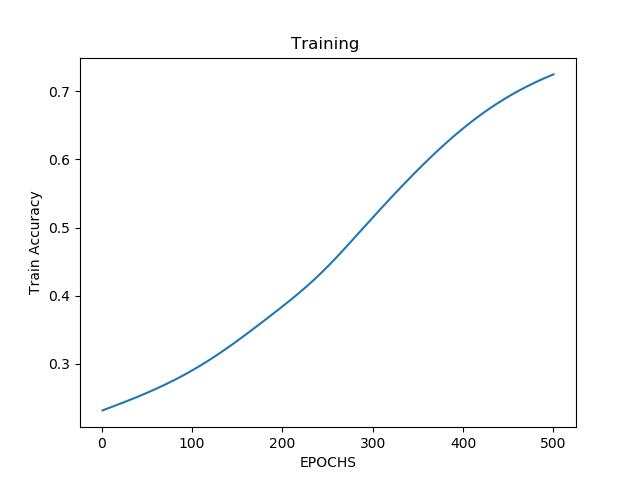
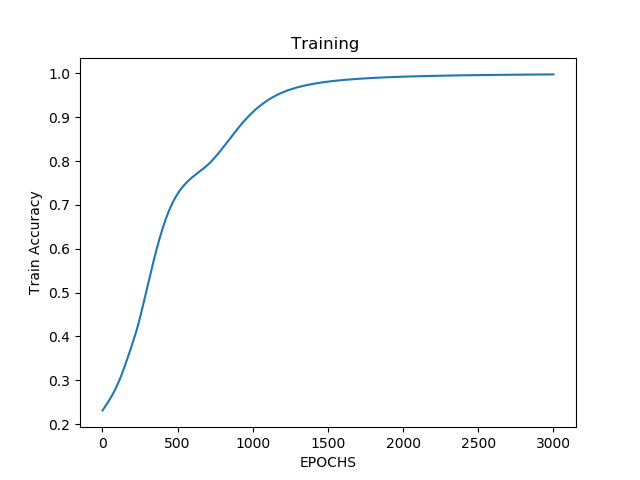
added cpu resource display

diff --git a/fnn.py b/fnn.py
@@ -5,13 +5,17 @@ import torch.nn.functional as F
 import matplotlib.pyplot as plt
 import datetime
 import tqdm
+import cpuinfo
+import os
 
 # gpu / cpu check
 if torch.cuda.is_available():
 	print('resource: GPU Available')
+    # os.system(nvidia-smi)
 
 else:
-	print('resource: CPU Available')
+	print('resource: ',cpuinfo.get_cpu_info()['brand'])
+    # os.system()
 
 
 
@@ -22,7 +26,8 @@ input_size = 5
 hidden_size = 10
 num_classes = 4
 learning_rate = 0.001
-epochs = 500
+epochs = 3000
+time_delay_tqdm = 0.001
 
 
 # defining input and target
@@ -62,7 +67,7 @@ def plot_loss(e,epochs):
 	#plt.show()
 	plt.close()
 
-	print("final accuracy: ", y.pop())
+	print("train accuracy: ", y.pop())
 
 
 
@@ -148,7 +153,7 @@ for epoch in tqdm(range(0,epochs),desc = 'training'):
 		#
 		# print ("percentage of training complete: ", ((1-(epoch/epochs)) * 100))
 
-		time.sleep(0.01) #update the tqdm object after the sleeping time
+		time.sleep(time_delay_tqdm) #update the tqdm object after the sleeping time
 net_time = datetime.datetime.now()-start
 
 print("total time: ",net_time)

diff --git a/cnn.py b/cnn.py
@@ -5,13 +5,17 @@ import torch.nn.functional as F
 import matplotlib.pyplot as plt
 import datetime
 import tqdm
+import cpuinfo
+import os
 
 # gpu / cpu check
 if torch.cuda.is_available():
 	print('resource: GPU Available')
+    # os.system(nvidia-smi)
 
 else:
-	print('resource: CPU Available')
+	print('resource: ',cpuinfo.get_cpu_info()['brand'])
+    # os.system()
 
 
 
@@ -23,6 +27,7 @@ hidden_size = 10
 num_classes = 4
 learning_rate = 0.001
 epochs = 500
+time_delay_tqdm = 0.001
 
 
 # defining input and target
@@ -62,7 +67,7 @@ def plot_loss(e,epochs):
 	#plt.show()
 	plt.close()
 
-	print("final accuracy: ", y.pop())
+	print("train accuracy: ", y.pop())
 
 
 
@@ -148,7 +153,7 @@ for epoch in tqdm(range(0,epochs),desc = 'training'):
 		#
 		# print ("percentage of training complete: ", ((1-(epoch/epochs)) * 100))
 
-		time.sleep(0.01) #update the tqdm object after the sleeping time
+		time.sleep(time_delay_tqdm) #update the tqdm object after the sleeping time
 net_time = datetime.datetime.now()-start
 
 print("total time: ",net_time)
